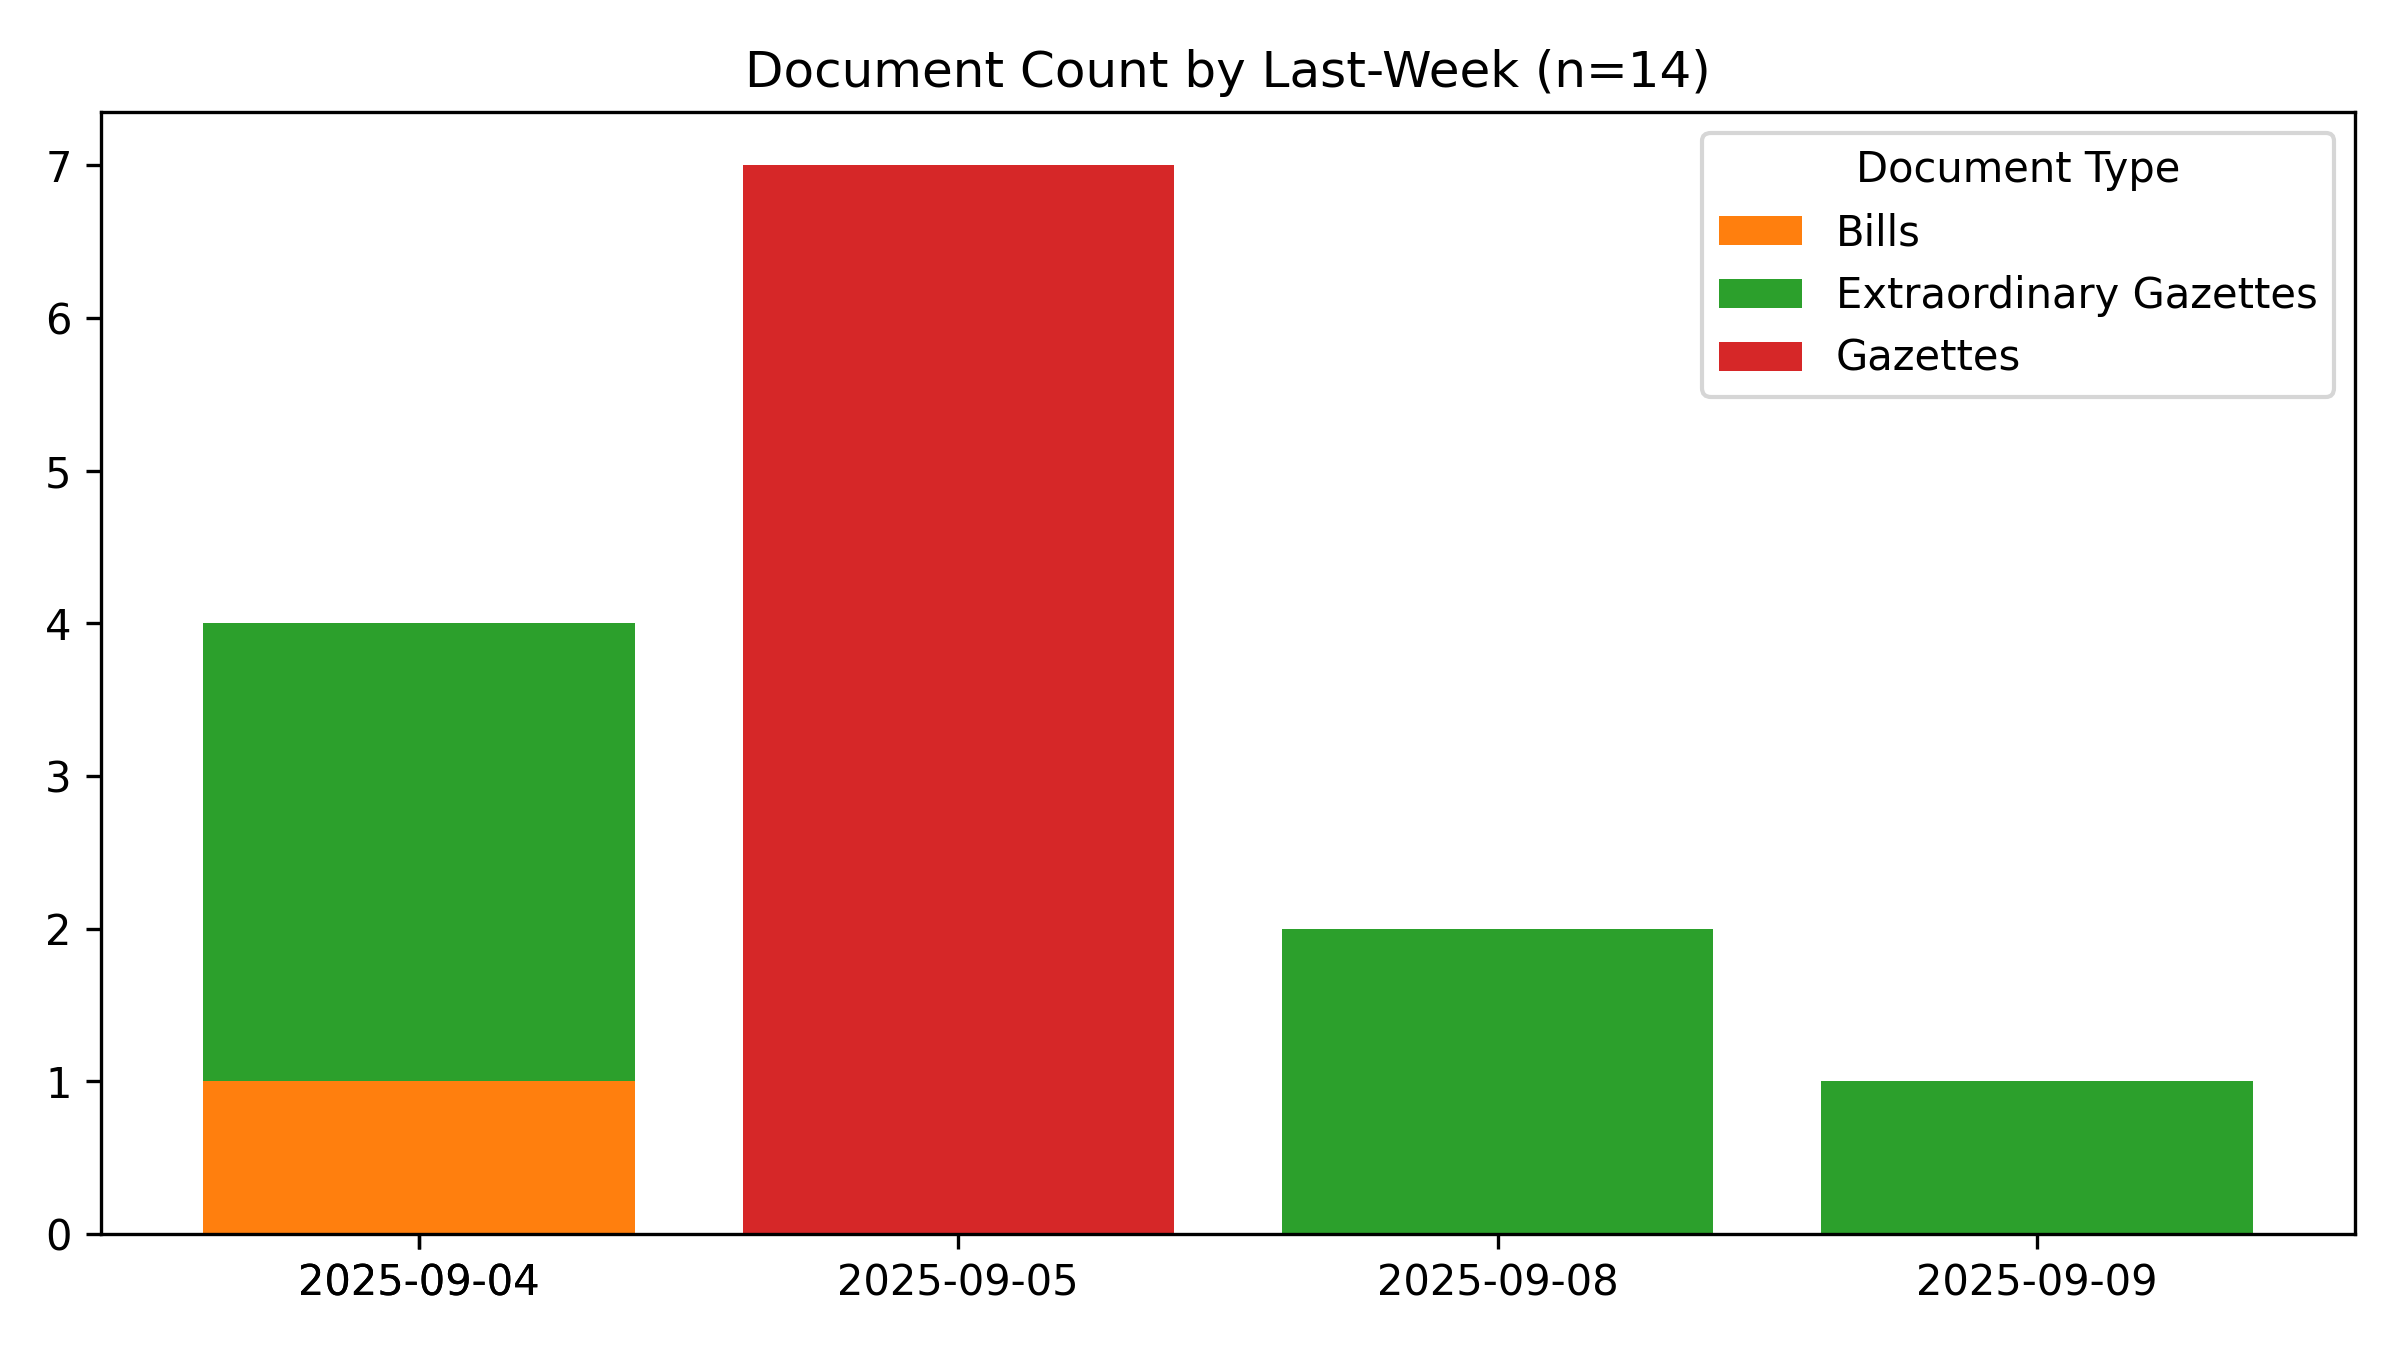
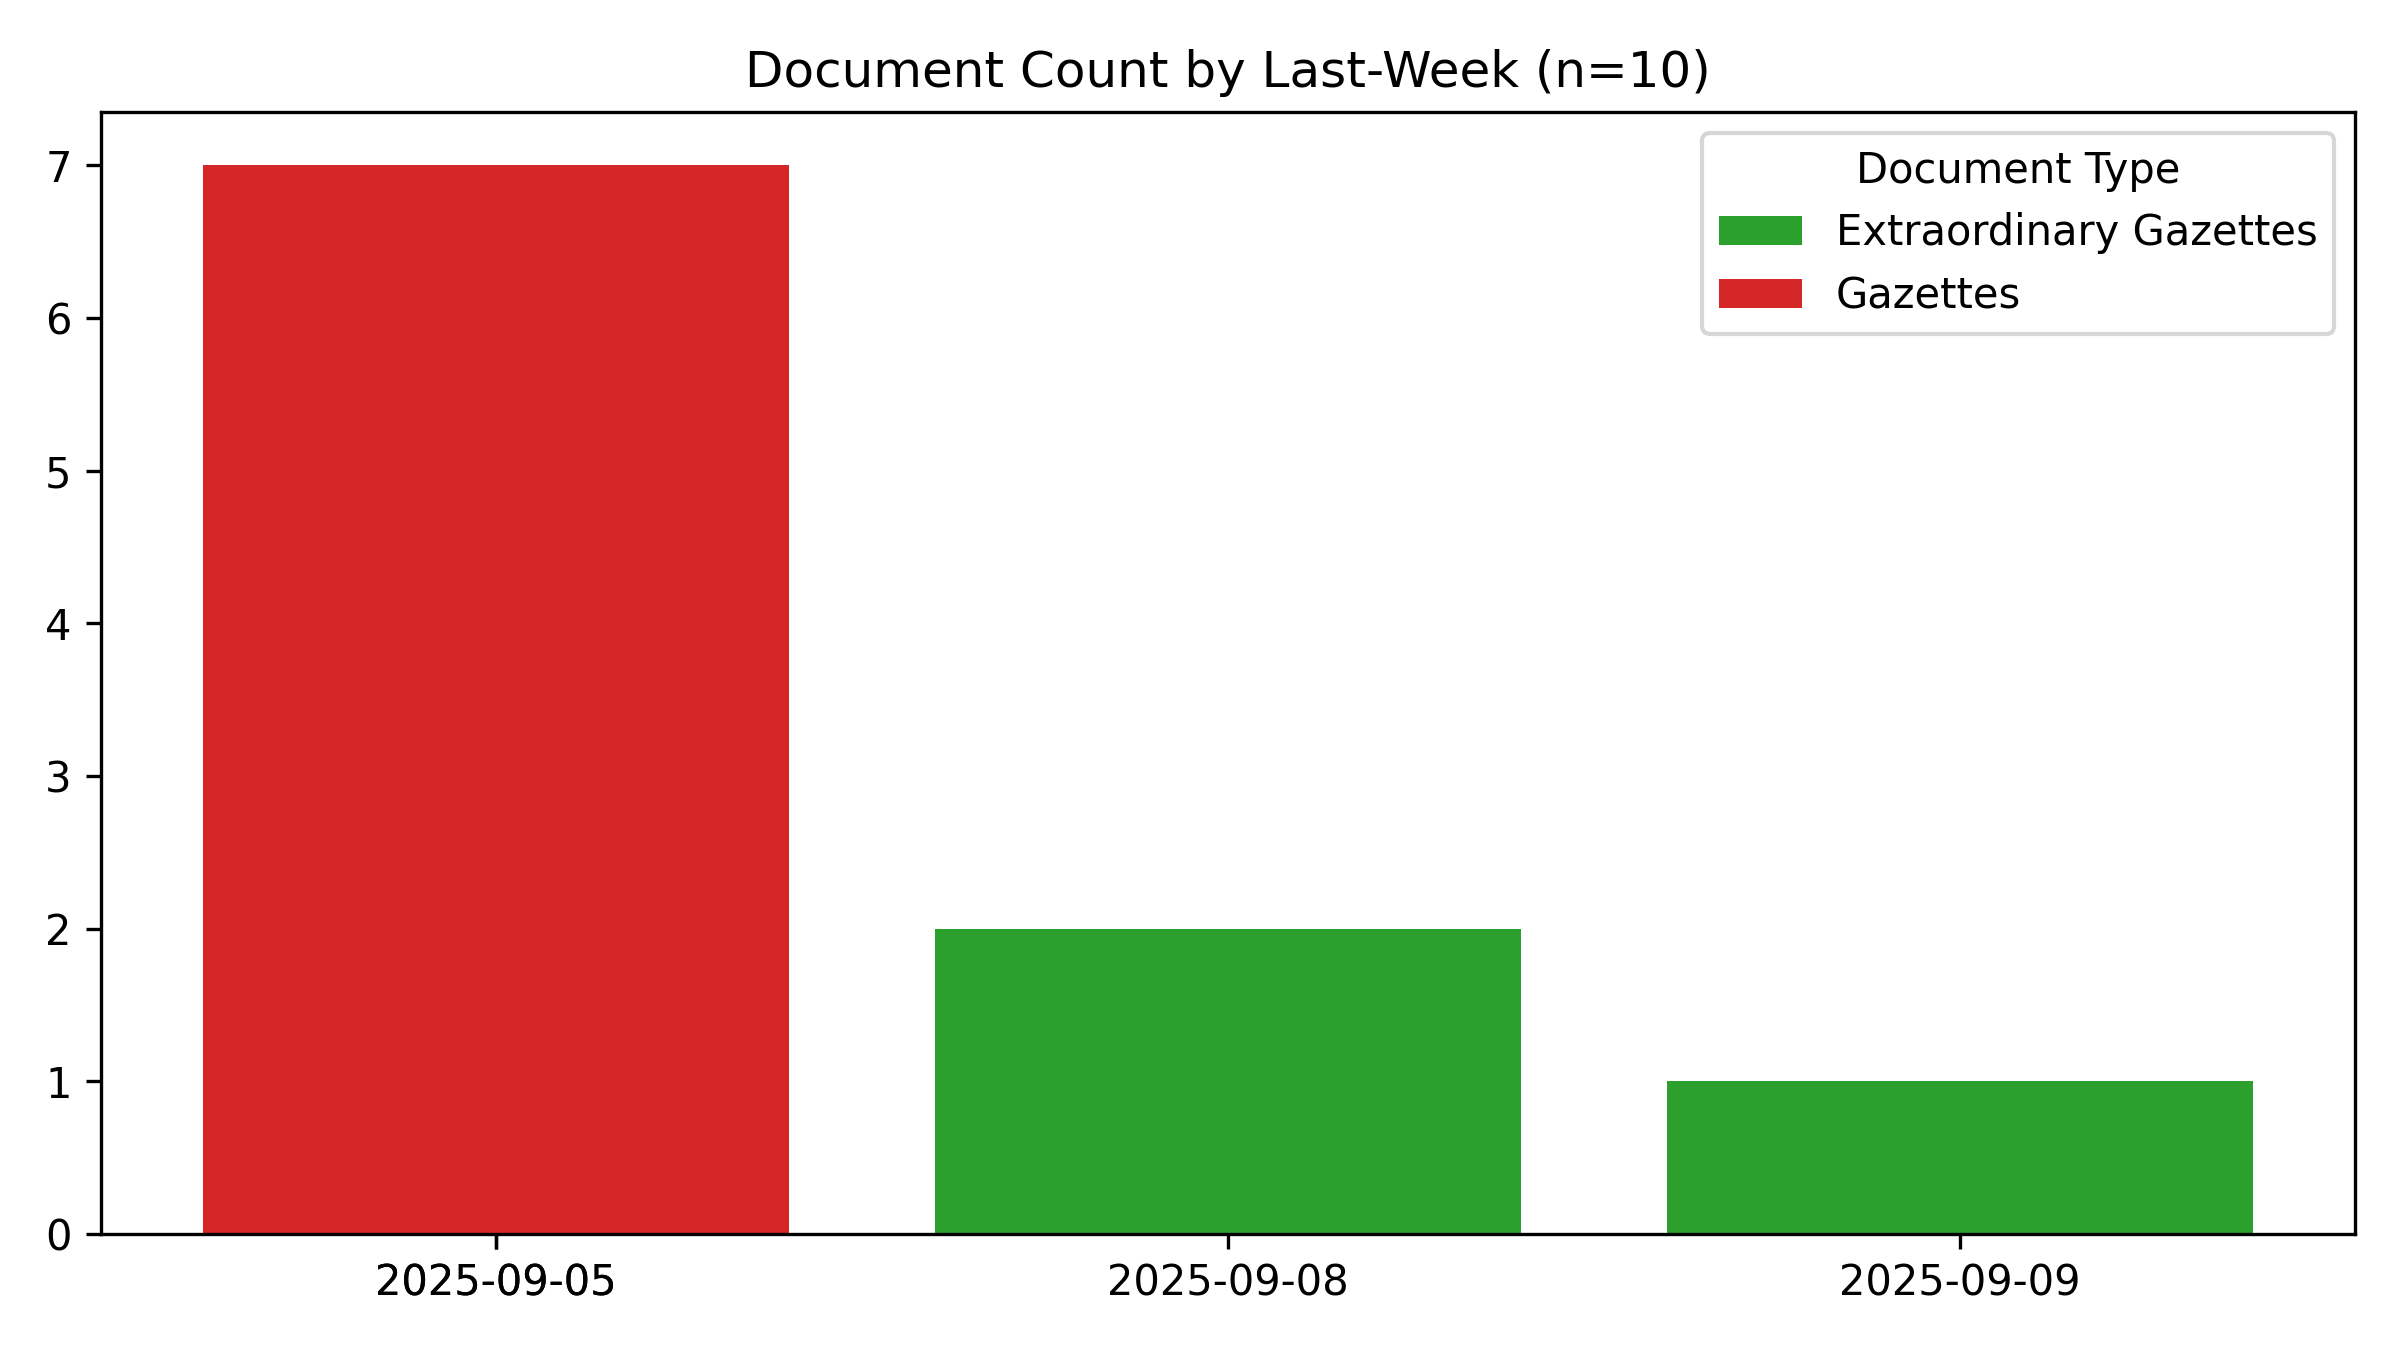
🤖 [build_readme.yml] 2025-09-12-0015

diff --git a/README.md b/README.md
@@ -1,6 +1,6 @@
 # #SriLanka 🇱🇰 - Legal Documents #Dataset
 
-*Last Updated **2025-09-12 05:12:57**.*
+*Last Updated **2025-09-12 05:45:26**.*
 
 **44,562** documents (24.4 MB), from 1981-01-22 to 2025-09-09.
 
@@ -54,7 +54,7 @@ For best results, use a desktop browser.
 
 ## Recent Documents (Published during the last 7 days)
 
-**14** Documents
+**10** Documents
 
 - 🚨 [2025-09-09] [Public Utilities Commission of Sri Lanka - Revised Expenditure Budget - 2025](https://github.com/nuuuwan/lk_legal_docs_data/tree/data_2020s/data/extra-gazettes/2025/2453-16)
 - 🚨 [2025-09-08] [Election Commission - L. A. E. O. Notice Under Section 66A (1) Filling of a Vacancy in the office of members of the Akkaraipattu M/C](https://github.com/nuuuwan/lk_legal_docs_data/tree/data_2020s/data/extra-gazettes/2025/2453-14)
@@ -66,7 +66,3 @@ For best results, use a desktop browser.
 - 📢 [2025-09-05] [(IIB) - Advertising](https://github.com/nuuuwan/lk_legal_docs_data/tree/data_2020s/data/gazettes/2025/2025-09-05-iib-advertising)
 - 📢 [2025-09-05] [(IIA) - Advertising](https://github.com/nuuuwan/lk_legal_docs_data/tree/data_2020s/data/gazettes/2025/2025-09-05-iia-advertising)
 - 📢 [2025-09-05] [(I) - General](https://github.com/nuuuwan/lk_legal_docs_data/tree/data_2020s/data/gazettes/2025/2025-09-05-i-general)
-- ✍ [2025-09-04] [Convention against Doping in Sport (Amendment) - GS](https://github.com/nuuuwan/lk_legal_docs_data/tree/data_2020s/data/bills/2025/631-2025)
-- 🚨 [2025-09-04] [Election Commission - Filling of a vacancy in the office of member of the Medawachchiya Pradeshiya Sabha](https://github.com/nuuuwan/lk_legal_docs_data/tree/data_2020s/data/extra-gazettes/2025/2452-41)
-- 🚨 [2025-09-04] [2452/38](https://github.com/nuuuwan/lk_legal_docs_data/tree/data_2020s/data/extra-gazettes/2025/2452-38)
-- 🚨 [2025-09-04] [Land Title Settlement Dept. - Homagama, Homagama D/S Division, Colombo District (25/55050)](https://github.com/nuuuwan/lk_legal_docs_data/tree/data_2020s/data/extra-gazettes/2025/2452-31)
